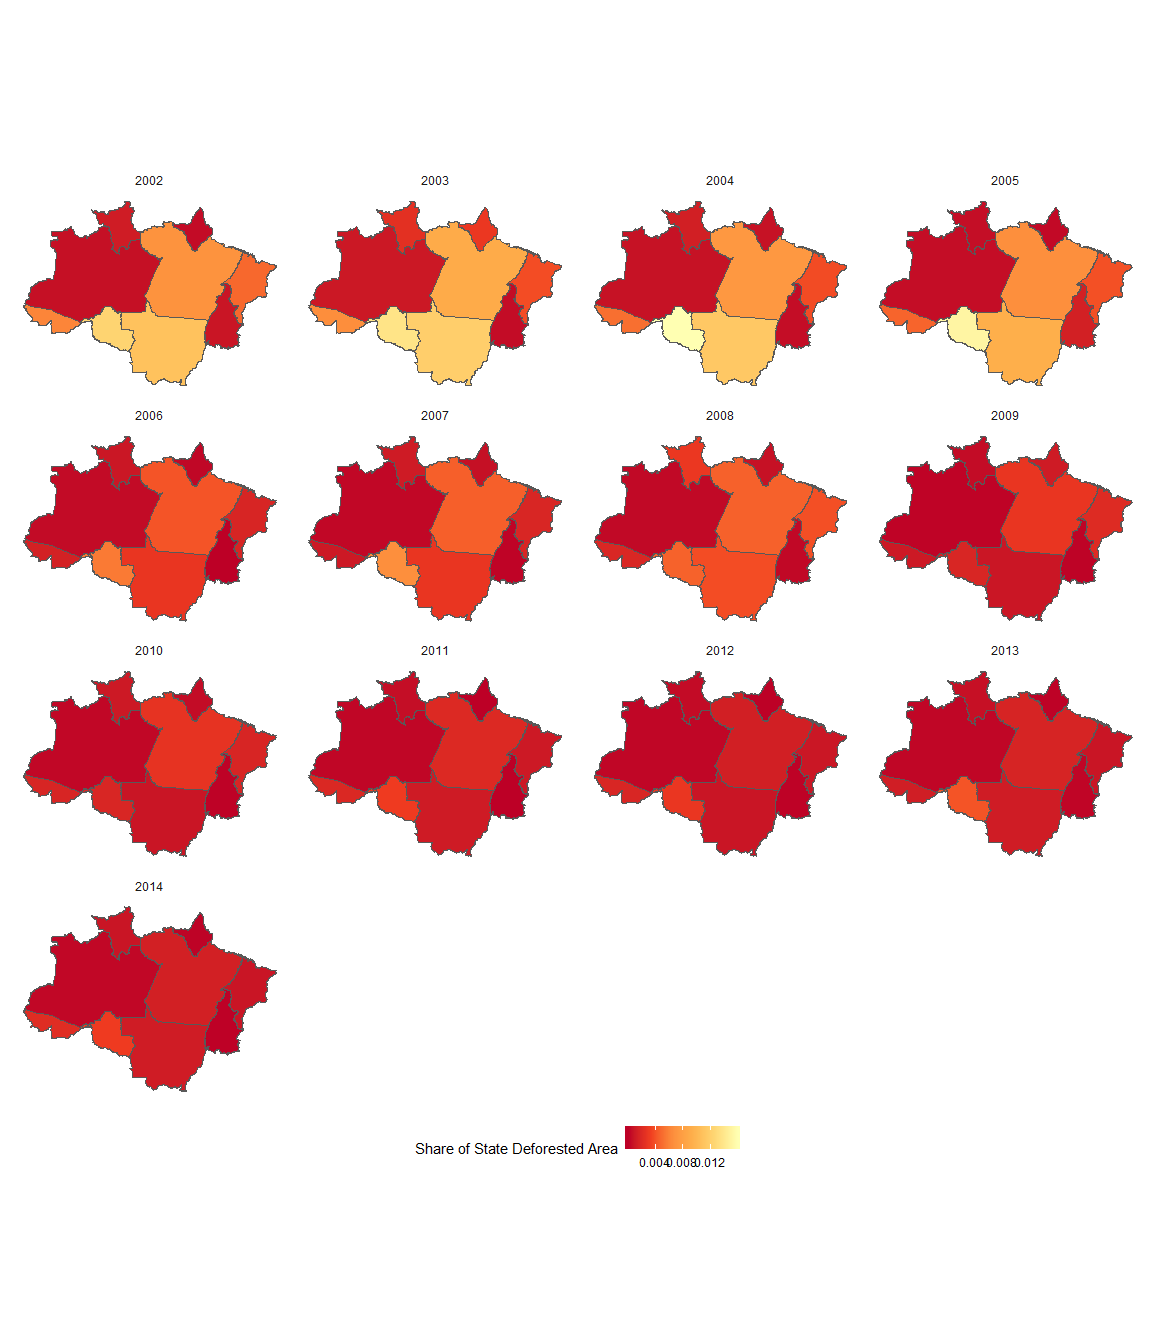
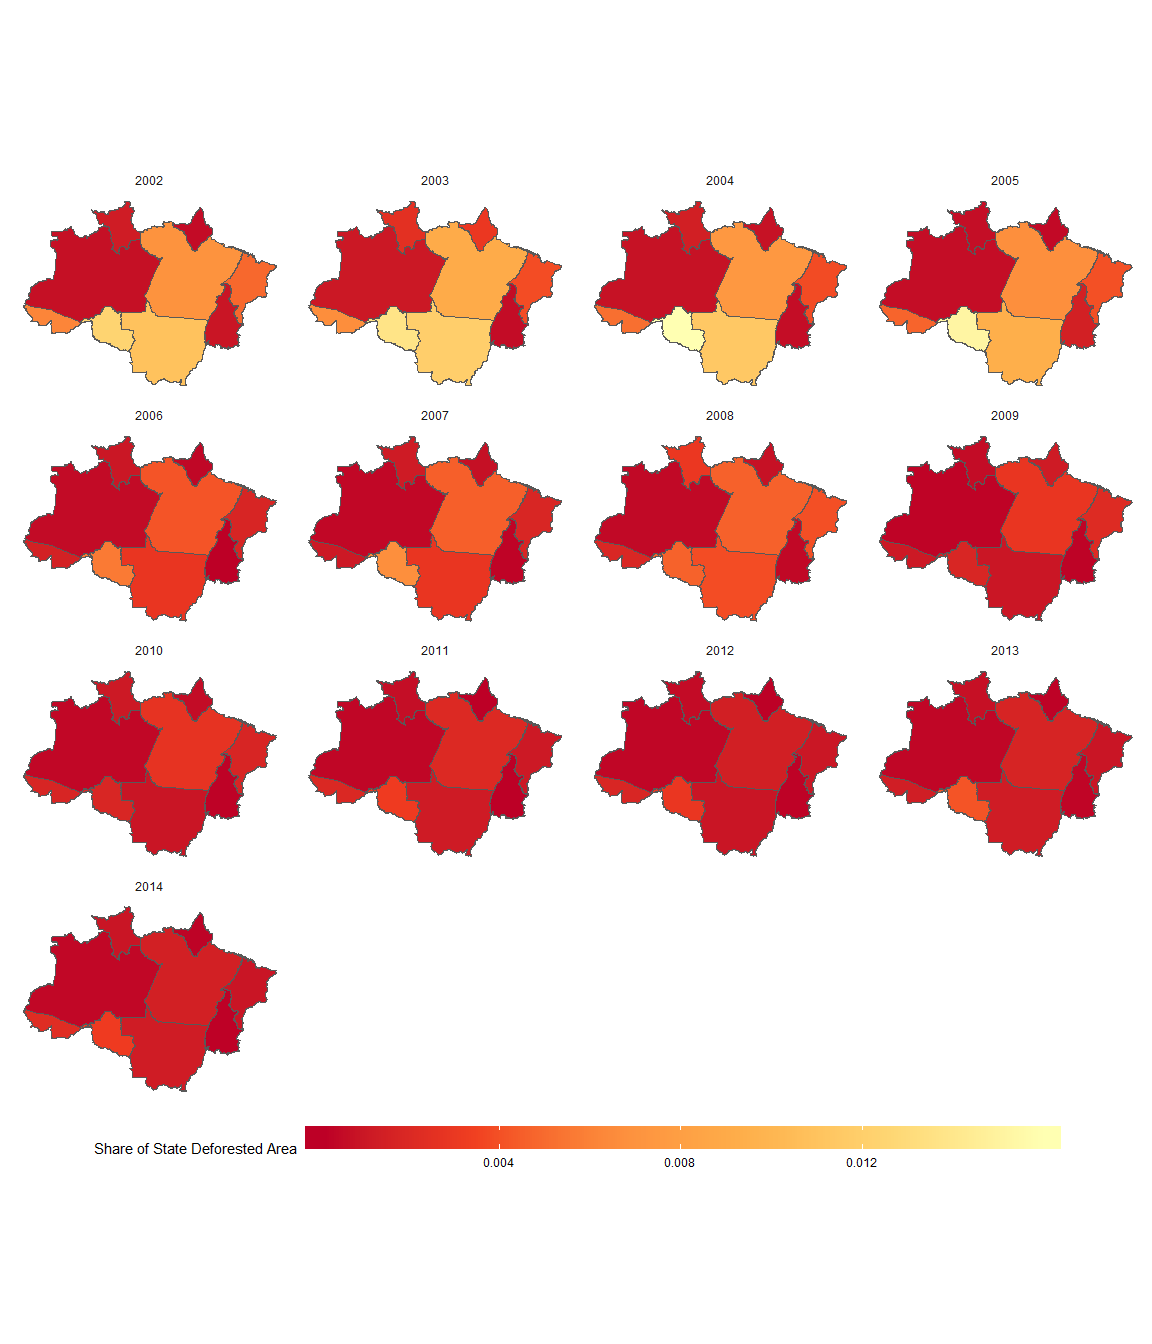
Minor style adjustments.

Changed region(s): [[0.0938, 0.8125, 0.9375, 0.875]]

diff --git a/assignment/final-project.md b/assignment/final-project.md
@@ -6,7 +6,7 @@ November 25, 2018
 ### Loading Libraries
 
 ``` r
-library(tidyverse)    # to manipulate data 
+library(tidyverse)    # to manipulate data
 library(sf)           # to work with simple features data
 library(XML)          # XML for HTML processing
 library(utils)        # for 'unzip' function
@@ -20,33 +20,30 @@ library(gridExtra)    # for organizing multiple plots
 UnzipMultipleFolders <- function(zip.dir,
                                  zip.pattern  = ".zip",
                                  unzip.subdir = T) {
-  
-    # UNZIPS FOLDERS IN GIVEN DIRECTORY & SUBDIRECTORIES AND DELETES COMPRESSED FOLDERS
+    # UNZIPS FOLDERS IN GIVEN DIRECTORY & > 
+    # SUBDIRECTORIES AND DELETES COMPRESSED FOLDERS
     #
     # ARGS
     #   zip.dir:      parent directory containing zip files
     #   zip.pattern:  zipped file extension
-    #   unzip.subdir: if TRUE, looks for 'zip.pattern' subdirs in 'zip.dir' (but does not find nested compressed dirs - 'while' loop in >
-    #                      function addresses this)
+    #   unzip.subdir: if TRUE, looks for 'zip.pattern' subdirs in 'zip.dir' >
+    #                 (but does not find nested compressed dirs - 'while' loop in >
+    #                 function addresses this)
     #
     # RETURN
-    #   unzipped folders in equivalent directory structure
-  
-  
-  
+    # unzipped folders in equivalent directory structure
   
       # zipped folder identification 
       zip_list <- list.files(path       = zip.dir,
                              pattern    = zip.pattern,
                              recursive  = T,
                              full.names = T)
-    
-    
+  
       # unzip procedure
       while (length(zip_list) > 0) {                          # 'while' to enable recursive unzip
-        for (zip_folder in zip_list) {
-          unzip_dir <- str_replace(pattern     = zip.pattern,   # sets unzipped dir structure to mirror original zipped dir structure
-                                   replacement = "",
+      for (zip_folder in zip_list) {
+          unzip_dir <- str_replace(pattern     = zip.pattern,   # sets unzipped dir structure to mirror >
+                                   replacement = "",            # original zipped dir structure
                                    string      = zip_folder)
           
           unzip(zipfile   = zip_folder,                       # unzips folders
@@ -56,8 +53,8 @@ UnzipMultipleFolders <- function(zip.dir,
   
     map(zip_list, unlink)  # deletes zip files
   
-    zip_list <- list.files(path       = zip.dir,       # 'zip.list' updated to check existence of remaining zip dirs in recently unzipped dirs
-                           pattern    = zip.pattern,
+    zip_list <- list.files(path       = zip.dir,       # 'zip.list' updated to check existence of > 
+                           pattern    = zip.pattern,   # remaining zip dirs in recently unzipped dirs
                            recursive  = unzip.subdir,
                            full.names = T)
     }
@@ -401,7 +398,7 @@ ggplot() +
         strip.background = element_rect(fill = NA),
         axis.line = element_blank(), axis.ticks = element_blank(), 
         axis.title = element_blank(), axis.text = element_blank(), 
-        legend.position = "bottom")
+        legend.position = "bottom", legend.key.width = unit(4, "cm"))
 ```
 
 ![](final-project_files/figure-markdown_github/unnamed-chunk-11-1.png)
@@ -430,35 +427,38 @@ ggplot() +
         strip.background = element_rect(fill = NA),
         axis.line = element_blank(), axis.ticks = element_blank(), 
         axis.title = element_blank(), axis.text = element_blank(),
-        legend.position = "bottom")
+        legend.position = "bottom", legend.key.width = unit(4, "cm"))
 ```
 
 ![](final-project_files/figure-markdown_github/unnamed-chunk-12-1.png)
 
-### Spatial Distribution of deforestation by cleared patch size across time (2002-2014)
+### Spatial Distribution of deforestation by cleared patch size across time (2002-2014) - create function to just change the start and end year
 
-**Fig. 4 - Distribution of deforested patches of different sizes in the Brazilian Amazon for periods of (a) rapidly increasing deforestation (2002 through 2004) and (b) rapidly decreasing deforestation (2005 through 2009).- (Rosa et al., 2012)** ![](../images/deforestation_map_bySize_rosa_et_al_2012.png)
+**Fig. 4 - Distribution of deforested patches of different sizes in the Brazilian Amazon for periods of (a) rapidly increasing deforestation (2002 through 2004) and (b) rapidly decreasing deforestation (2005 through 2009).- (Rosa et al., 2012)**
+
+![](../images/deforestation_map_bySize_rosa_et_al_2012.png)
 
 ``` r
-def_clean %>% 
-  filter(prodes_year_increment == 2010 | prodes_year_increment == 2012) %>% 
+map_1 <-
+  def_clean %>% 
+  filter(prodes_year_increment >= 2002 & prodes_year_increment <= 2004) %>% 
   mutate(size = ifelse(area < 25, "<25 ha", NA)) %>%
   mutate(size = ifelse(area >= 25 & area < 100, "25-100 ha", size)) %>% 
   mutate(size = ifelse(area >= 100 & area < 500, "100-500 ha", size)) %>% 
   mutate(size = ifelse(area >= 500, "> 500 ha", size)) %>% 
-  group_by(state_uf, prodes_year_increment, size) %>% 
+  group_by(state_uf, size) %>% 
   st_union(by_feature = T) %>% 
   ungroup() %>% 
-  mutate(prodes_year_increment = as.factor(prodes_year_increment)) %>% 
   mutate(size = factor(size, levels = c("> 500 ha", "100-500 ha", "25-100 ha", "<25 ha"))) %>% 
+  filter(state_uf == "AC") %>% 
   
 ggplot() +
   
-  geom_sf(aes(col = size, fill = size), size = 2) +
+  geom_sf(aes(col = size, fill = size), size = 1.5) +
   
   geom_sf(data = la_clean, fill = NA) +
   
-  facet_wrap(. ~ prodes_year_increment, ncol = 1) +
+  ggtitle("Distribution of deforested patches by size (2002-2004") +
   
    theme(panel.grid.major = element_line(colour = "White"), 
         panel.grid.minor = element_line(colour = "white"),
@@ -467,6 +467,70 @@ ggplot() +
         axis.line = element_blank(), axis.ticks = element_blank(), 
         axis.title = element_blank(), axis.text = element_blank(),
         legend.position = "bottom")
+
+map_2 <-
+  def_clean %>% 
+  filter(prodes_year_increment >= 2005 & prodes_year_increment <= 2009) %>% 
+  mutate(size = ifelse(area < 25, "<25 ha", NA)) %>%
+  mutate(size = ifelse(area >= 25 & area < 100, "25-100 ha", size)) %>% 
+  mutate(size = ifelse(area >= 100 & area < 500, "100-500 ha", size)) %>% 
+  mutate(size = ifelse(area >= 500, "> 500 ha", size)) %>% 
+  group_by(state_uf, size) %>% 
+  st_union(by_feature = T) %>% 
+  ungroup() %>% 
+  mutate(size = factor(size, levels = c("> 500 ha", "100-500 ha", "25-100 ha", "<25 ha"))) %>% 
+    filter(state_uf == "AC") %>% 
+
+  
+ggplot() +
+  
+  geom_sf(aes(col = size, fill = size), size = 1.5) +
+  
+  geom_sf(data = la_clean, fill = NA) +
+  
+  ggtitle("Distribution of deforested patches by size (2005-2009)") +
+
+  
+   theme(panel.grid.major = element_line(colour = "White"), 
+        panel.grid.minor = element_line(colour = "white"),
+        panel.background = element_blank(), 
+        strip.background = element_rect(fill = NA),
+        axis.line = element_blank(), axis.ticks = element_blank(), 
+        axis.title = element_blank(), axis.text = element_blank(),
+        legend.position = "bottom")
+
+map_3 <-
+  def_clean %>% 
+  filter(prodes_year_increment >= 2009) %>% 
+  mutate(size = ifelse(area < 25, "<25 ha", NA)) %>%
+  mutate(size = ifelse(area >= 25 & area < 100, "25-100 ha", size)) %>% 
+  mutate(size = ifelse(area >= 100 & area < 500, "100-500 ha", size)) %>% 
+  mutate(size = ifelse(area >= 500, "> 500 ha", size)) %>% 
+  group_by(state_uf, size) %>% 
+  st_union(by_feature = T) %>% 
+  ungroup() %>% 
+  mutate(size = factor(size, levels = c("> 500 ha", "100-500 ha", "25-100 ha", "<25 ha"))) %>% 
+    filter(state_uf == "AC") %>% 
+
+  
+ggplot() +
+  
+  geom_sf(aes(col = size, fill = size), size = 1.2) +
+  
+  geom_sf(data = la_clean, fill = NA) +
+  
+  ggtitle("Distribution of deforested patches by size (2009-2014)") +
+
+  
+   theme(panel.grid.major = element_line(colour = "White"), 
+        panel.grid.minor = element_line(colour = "white"),
+        panel.background = element_blank(), 
+        strip.background = element_rect(fill = NA),
+        axis.line = element_blank(), axis.ticks = element_blank(), 
+        axis.title = element_blank(), axis.text = element_blank(),
+        legend.position = "bottom")
+
+grid.arrange(map_1, map_2, map_3, ncol = 1)
 ```
 
 ![](final-project_files/figure-markdown_github/unnamed-chunk-13-1.png)
